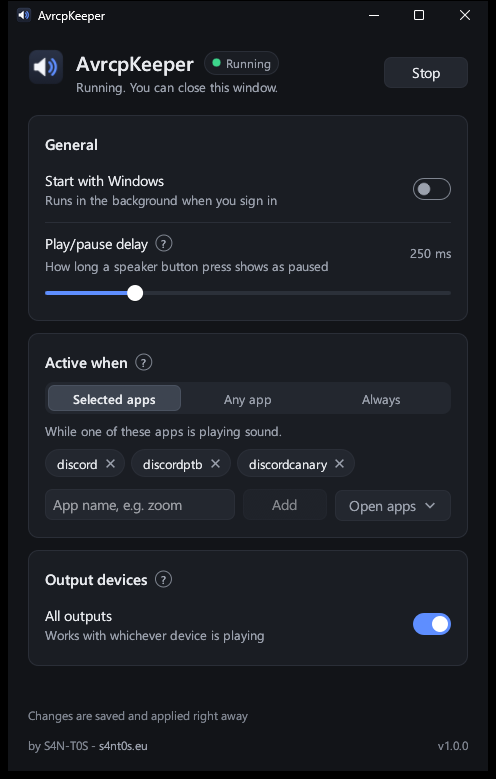
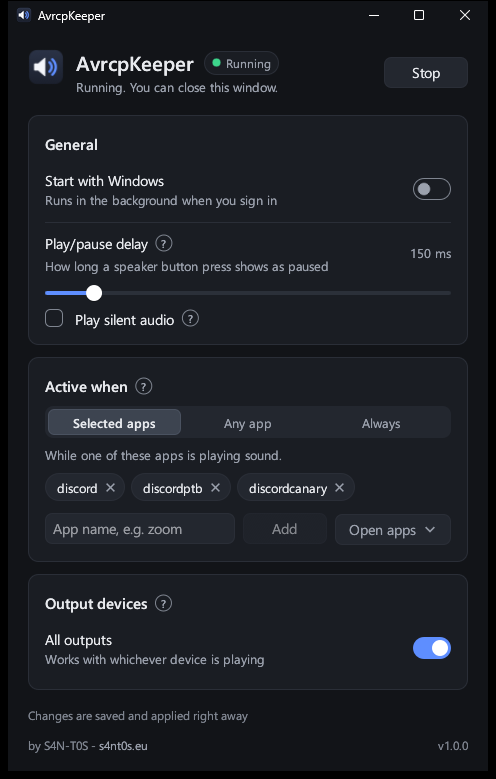
Make the silent stream optional and off by default
The stream popped on the JBL Flip when it started and stopped, and reporting "playing" alone keeps the speaker on. "Play silent audio" in the settings window (silent_stream in the ini) turns it back on.

Also lowers the default play/pause delay to 150 ms and makes the scrollbar handle visible against its track.

diff --git a/src/background.rs b/src/background.rs
@@ -161,7 +161,11 @@ fn describe(cfg: &Config) -> String {
         Devices::All => "all".to_string(),
         Devices::Selected(ids) => format!("{} selected", ids.len()),
     };
-    format!("Trigger: {trigger}; outputs: {devices}; resync: {} ms.", cfg.resync_ms)
+    format!(
+        "Trigger: {trigger}; outputs: {devices}; resync: {} ms; silent stream: {}.",
+        cfg.resync_ms,
+        if cfg.silent_stream { "on" } else { "off" }
+    )
 }
 
 fn create_window() -> Result<HWND> {
@@ -534,20 +538,22 @@ impl State {
         match create_session(self.hwnd, self.thumbnail.as_ref()) {
             Ok((smtc, button_token)) => {
                 let mut keeper = Keeper { smtc, button_token, device_id, stream: None, stream_retry_at: None };
-                if let Some(id) = &keeper.device_id {
-                    let name = audio::device_name(en, id).unwrap_or_else(|| id.clone());
-                    match audio::SilentStream::start(en, id) {
-                        Ok(stream) => {
-                            keeper.stream = Some(stream);
-                            log!("Active, silent stream on {name}.");
-                        }
-                        Err(e) => {
-                            keeper.stream_retry_at = Some(Instant::now() + STREAM_RETRY);
-                            log!("Active on {name} without a silent stream ({}).", e.message());
+                match &keeper.device_id {
+                    Some(id) if self.config.silent_stream => {
+                        let name = audio::device_name(en, id).unwrap_or_else(|| id.clone());
+                        match audio::SilentStream::start(en, id) {
+                            Ok(stream) => {
+                                keeper.stream = Some(stream);
+                                log!("Active, silent stream on {name}.");
+                            }
+                            Err(e) => {
+                                keeper.stream_retry_at = Some(Instant::now() + STREAM_RETRY);
+                                log!("Active on {name} without a silent stream ({}).", e.message());
+                            }
                         }
                     }
-                } else {
-                    log!("Active.");
+                    Some(id) => log!("Active on {}.", audio::device_name(en, id).unwrap_or_else(|| id.clone())),
+                    None => log!("Active."),
                 }
                 self.keeper = Some(keeper);
                 self.rebuild = false;
@@ -581,10 +587,18 @@ impl State {
     }
 
     /// Keeps the silent stream topped up, and recreates it if it fails, without touching the
-    /// media session (so the speaker never sees "stopped" for a stream hiccup).
+    /// media session (so the speaker never sees "stopped" for a stream hiccup). Also starts or
+    /// stops it when the setting changes.
     fn maintain_stream(&mut self, en: &IMMDeviceEnumerator) {
         let Some(keeper) = &mut self.keeper else { return };
         let Some(device) = keeper.device_id.clone() else { return };
+        if !self.config.silent_stream {
+            keeper.stream_retry_at = None;
+            if keeper.stream.take().is_some() {
+                log!("Silent stream stopped.");
+            }
+            return;
+        }
         let now = Instant::now();
         if let Some(stream) = &keeper.stream {
             if stream.refill().is_err() {
@@ -601,6 +615,7 @@ impl State {
             Ok(stream) => {
                 keeper.stream = Some(stream);
                 keeper.stream_retry_at = None;
+                log!("Silent stream started.");
             }
             Err(e) => {
                 keeper.stream_retry_at = Some(now + STREAM_RETRY);

diff --git a/src/gui/widgets.rs b/src/gui/widgets.rs
@@ -37,6 +37,29 @@ fn paint_switch(ui: &Ui, rect: Rect, on: bool, hovered: bool, id: Id) {
     painter.circle_filled(Pos2::new(x, rect.center().y), knob_r, mix(theme::TEXT_DIM, Color32::WHITE, t));
 }
 
+/// The box and tick of a checkbox, `t` going from 0 (off) to 1 (on).
+fn paint_check(ui: &Ui, rect: Rect, t: f32, hovered: bool) {
+    let painter = ui.painter();
+    let radius = CornerRadius::same(5);
+    if hovered {
+        painter.rect_filled(rect, radius, theme::SURFACE_HI);
+    }
+    let (edge, on_fill) =
+        if hovered { (theme::TEXT_DIM, theme::ACCENT_HOVER) } else { (theme::TEXT_FAINT, theme::ACCENT) };
+    painter.rect(
+        rect,
+        radius,
+        mix(Color32::TRANSPARENT, on_fill, t),
+        Stroke::new(1.0, mix(edge, on_fill, t)),
+        StrokeKind::Inside,
+    );
+    if t > 0.0 {
+        let c = rect.center();
+        let check = vec![c + egui::vec2(-4.5, 0.2), c + egui::vec2(-1.3, 3.4), c + egui::vec2(4.8, -3.6)];
+        painter.line(check, Stroke::new(2.0, Color32::WHITE.gamma_multiply(t)));
+    }
+}
+
 /// A full-width row with a title, an optional subtitle and a switch; clicking anywhere on it
 /// toggles. Returns true when the value changed.
 pub fn toggle_row(ui: &mut Ui, on: &mut bool, title: &str, subtitle: Option<&str>) -> bool {
@@ -277,18 +300,7 @@ pub fn check_row(ui: &mut Ui, checked: &mut bool, label: &str, status: Option<(&
     }
     let t = ui.ctx().animate_bool_responsive(response.id, *checked);
     let bx = Rect::from_min_size(Pos2::new(rect.left(), rect.center().y - 9.0), Vec2::splat(18.0));
-    painter.rect(
-        bx,
-        CornerRadius::same(5),
-        mix(Color32::TRANSPARENT, theme::ACCENT, t),
-        Stroke::new(1.0, mix(theme::TEXT_FAINT, theme::ACCENT, t)),
-        StrokeKind::Inside,
-    );
-    if t > 0.0 {
-        let c = bx.center();
-        let check = vec![c + egui::vec2(-4.5, 0.2), c + egui::vec2(-1.3, 3.4), c + egui::vec2(4.8, -3.6)];
-        painter.line(check, Stroke::new(2.0, Color32::WHITE.gamma_multiply(t)));
-    }
+    paint_check(ui, bx, t, false);
 
     let mut text_right = rect.right();
     if let Some((status, color)) = status {
@@ -308,6 +320,26 @@ pub fn check_row(ui: &mut Ui, checked: &mut bool, label: &str, status: Option<(&
     let galley = painter.layout_job(job);
     painter.galley(Pos2::new(text_left, rect.center().y - galley.size().y / 2.0), galley, theme::TEXT);
     focus_ring(ui, &response, hover_rect, 6);
+    response.on_hover_cursor(CursorIcon::PointingHand);
+    clicked
+}
+
+/// A checkbox sized to its label, unlike `check_row`. Returns true on toggle.
+pub fn checkbox(ui: &mut Ui, checked: &mut bool, label: &str) -> bool {
+    let galley = ui.painter().layout_no_wrap(label.to_owned(), FontId::proportional(theme::SIZE_BODY), theme::TEXT);
+    let size = egui::vec2(18.0 + 12.0 + galley.size().x, 20.0);
+    let (rect, response) = ui.allocate_exact_size(size, Sense::click());
+    response.widget_info(|| WidgetInfo::selected(WidgetType::Checkbox, ui.is_enabled(), *checked, label));
+    let clicked = response.clicked();
+    if clicked {
+        *checked = !*checked;
+    }
+    let t = ui.ctx().animate_bool_responsive(response.id, *checked);
+    let bx = Rect::from_min_size(Pos2::new(rect.left(), rect.center().y - 9.0), Vec2::splat(18.0));
+    paint_check(ui, bx, t, response.hovered());
+    let pos = Pos2::new(bx.right() + 12.0, rect.center().y - galley.size().y / 2.0);
+    ui.painter().galley(pos, galley, theme::TEXT);
+    focus_ring(ui, &response, bx, 5);
     response.on_hover_cursor(CursorIcon::PointingHand);
     clicked
 }

diff --git a/src/config.rs b/src/config.rs
@@ -4,7 +4,7 @@ use std::ops::RangeInclusive;
 use std::path::{Path, PathBuf};
 
 pub const FILE_NAME: &str = "AvrcpKeeper.ini";
-pub const DEFAULT_RESYNC_MS: u32 = 250;
+pub const DEFAULT_RESYNC_MS: u32 = 150;
 pub const RESYNC_RANGE: RangeInclusive<u32> = 50..=2000;
 pub const DEFAULT_APPS: [&str; 3] = ["discord", "discordptb", "discordcanary"];
 
@@ -56,6 +56,8 @@ pub struct Config {
     pub apps: Vec<String>,
     pub devices: Devices,
     pub resync_ms: u32,
+    /// Play a silent stream on the output while the session is up.
+    pub silent_stream: bool,
     /// Write AvrcpKeeper.log next to the exe.
     pub log: bool,
 }
@@ -67,6 +69,7 @@ impl Default for Config {
             apps: DEFAULT_APPS.iter().map(|s| s.to_string()).collect(),
             devices: Devices::All,
             resync_ms: DEFAULT_RESYNC_MS,
+            silent_stream: false,
             log: false,
         }
     }
@@ -103,6 +106,11 @@ impl Config {
                         cfg.resync_ms = ms.clamp(*RESYNC_RANGE.start(), *RESYNC_RANGE.end());
                     }
                 }
+                "silent_stream" => {
+                    if let Some(on) = parse_bool(value) {
+                        cfg.silent_stream = on;
+                    }
+                }
                 "log" => {
                     if let Some(on) = parse_bool(value) {
                         cfg.log = on;
@@ -127,12 +135,15 @@ impl Config {
              ; devices: all, or a comma-separated list of audio endpoint IDs\n\
              devices = {}\n\
              resync_ms = {}\n\
+             ; silent_stream: true plays silence on the output while active\n\
+             silent_stream = {}\n\
              ; log: true writes AvrcpKeeper.log next to the exe\n\
              log = {}\n",
             self.trigger.as_str(),
             self.apps.join(", "),
             devices,
             self.resync_ms,
+            self.silent_stream,
             self.log
         )
     }
@@ -286,12 +297,13 @@ mod tests {
     #[test]
     fn parses_all_keys() {
         let cfg = Config::parse(&format!(
-            "trigger = any\napps = Spotify.exe, C:\\Games\\game.exe\ndevices = {JBL}\nresync_ms = 400\nlog = yes\n"
+            "trigger = any\napps = Spotify.exe, C:\\Games\\game.exe\ndevices = {JBL}\nresync_ms = 400\nsilent_stream = on\nlog = yes\n"
         ));
         assert_eq!(cfg.trigger, Trigger::AnyApp);
         assert_eq!(cfg.apps, vec!["spotify", "game"]);
         assert_eq!(cfg.devices, Devices::Selected(vec![JBL.to_string()]));
         assert_eq!(cfg.resync_ms, 400);
+        assert!(cfg.silent_stream);
         assert!(cfg.log);
     }
 
@@ -301,6 +313,12 @@ mod tests {
         assert!(!Config::parse("log = maybe\n").log);
         assert!(Config::parse("log = TRUE\n").log);
         assert!(!Config::parse("log = true\nlog = off\n").log);
+    }
+
+    #[test]
+    fn silent_stream_is_off_unless_enabled() {
+        assert!(!Config::default().silent_stream);
+        assert!(Config::parse("silent_stream = true\n").silent_stream);
     }
 
     #[test]
@@ -338,7 +356,8 @@ mod tests {
 
     #[test]
     fn round_trips() {
-        let mut cfg = Config { trigger: Trigger::Always, resync_ms: 300, log: true, ..Config::default() };
+        let mut cfg =
+            Config { trigger: Trigger::Always, resync_ms: 300, silent_stream: true, log: true, ..Config::default() };
         cfg.devices = Devices::Selected(vec![JBL.to_string()]);
         assert_eq!(Config::parse(&cfg.to_ini()), cfg);
         assert_eq!(Config::parse(&Config::default().to_ini()), Config::default());

diff --git a/src/gui/mod.rs b/src/gui/mod.rs
@@ -36,6 +36,10 @@ doesn't mute. The speaker then gets out of sync and its play/pause button stops 
 To avoid that, AvrcpKeeper briefly reports \"paused\" after each press and then \"playing\" again. This sets how long \
 that moment lasts. Call audio may dip during it. Shorter feels snappier; if the button still stops responding, raise \
 it.";
+const HELP_SILENT: &str = "By default AvrcpKeeper only tells the speaker that something is playing, which is usually \
+enough. Turning this on also plays silence to the speaker while AvrcpKeeper is active. Try it if the speaker still \
+mutes during calls. Some speakers click or pop when the silence starts and stops.\n\n\
+Not used with Always, so your PC can still sleep.";
 const HELP_TRIGGER: &str = "AvrcpKeeper only tells the speaker that something is playing while this is true. \
 The rest of the time your speaker and media keys behave as usual.";
 const HELP_DEVICES: &str = "AvrcpKeeper is only active on these outputs. Bluetooth speakers stay listed while \
@@ -469,6 +473,17 @@ impl SettingsApp {
             if widgets::slider(ui, &mut self.config.resync_ms, range, 10, "Play/pause delay").changed() {
                 self.mark_dirty();
             }
+            let row = egui::vec2(ui.available_width(), 20.0);
+            ui.allocate_ui_with_layout(row, Layout::left_to_right(Align::Center), |ui| {
+                if widgets::checkbox(ui, &mut self.config.silent_stream, "Play silent audio") {
+                    self.mark_dirty();
+                }
+                widgets::help(ui, "Play silent audio", HELP_SILENT);
+                if self.config.trigger == Trigger::Always {
+                    let note = RichText::new("Not used with Always").size(theme::SIZE_SECONDARY);
+                    ui.label(note.color(theme::TEXT_FAINT));
+                }
+            });
         });
     }
 

diff --git a/src/gui/theme.rs b/src/gui/theme.rs
@@ -52,7 +52,21 @@ pub fn apply(ctx: &egui::Context) {
         style.spacing.button_padding = egui::vec2(14.0, 6.0);
         style.spacing.interact_size.y = 24.0;
         style.spacing.combo_height = 260.0;
-        style.spacing.scroll = ScrollStyle::solid();
+        // With this theme `solid()` paints the handle and track the same color. Keep its layout
+        // and draw the handle in a faint text color instead.
+        style.spacing.scroll = ScrollStyle {
+            floating: true,
+            floating_width: 6.0,
+            floating_allocated_width: 10.0,
+            foreground_color: true,
+            dormant_background_opacity: 1.0,
+            active_background_opacity: 1.0,
+            interact_background_opacity: 1.0,
+            dormant_handle_opacity: 0.25,
+            active_handle_opacity: 0.25,
+            interact_handle_opacity: 0.45,
+            ..ScrollStyle::solid()
+        };
 
         let v = &mut style.visuals;
         v.dark_mode = true;

diff --git a/README.md b/README.md
@@ -31,7 +31,7 @@ I found and tested this on a JBL Flip, but any speaker that stops its output whe
 
 ## How it works
 
-Windows sends the speaker a play status over AVRCP (the Bluetooth remote-control profile), based on whichever media player is active. AvrcpKeeper registers its own media session and reports it as "playing" while the trigger is active (by default, Discord playing audio), with a silent audio stream underneath. The speaker sees "playing" and keeps its output on. Twenty seconds after the trigger goes quiet, the session is removed and everything goes back to normal.
+Windows sends the speaker a play status over AVRCP (the Bluetooth remote-control profile), based on whichever media player is active. AvrcpKeeper registers its own media session and reports it as "playing" while the trigger is active (by default, Discord playing audio). It doesn't play any sound of its own unless you turn on **Play silent audio**. The speaker sees "playing" and keeps its output on. Twenty seconds after the trigger goes quiet, the session is removed and everything goes back to normal.
 
 - **Media buttons still work.** While AvrcpKeeper is the active session, play/pause, next and previous from the speaker or keyboard go to the player you used last.
 - **Play/pause on the speaker stays in sync.** Some speakers track play/pause themselves, so after each press AvrcpKeeper reports "paused" for a moment and then "playing" again. That keeps the button working on every press. Call audio dips for that moment.
@@ -58,7 +58,8 @@ gh attestation verify AvrcpKeeper-<version>-windows-x64.zip -R S4N-T0S/AvrcpKeep
 | Setting | What it does |
 | --- | --- |
 | Start with Windows | Adds `AvrcpKeeper.exe --background` to your user's startup programs. |
-| Play/pause delay | How long the "paused" blip lasts after a play/pause press. 250 ms by default. If the speaker's button only works once and then stops responding, raise it. |
+| Play/pause delay | How long the "paused" blip lasts after a play/pause press. 150 ms by default. If the speaker's button only works once and then stops responding, raise it. |
+| Play silent audio | Also plays silence to the speaker while AvrcpKeeper is active. Off by default. Try it if the speaker still mutes during calls. Some speakers click or pop when the silence starts and stops. Not used with **Always**, so the PC can still sleep. |
 | Active when | **Selected apps** (Discord by default), **Any app** that is playing sound (system sounds are ignored), or **Always** while a selected output is connected. |
 | Output devices | **All outputs**, or only specific ones. Bluetooth speakers stay in the list while they're switched off, so you can pick yours before it connects. |
 
@@ -70,11 +71,12 @@ Settings are stored in `AvrcpKeeper.ini` next to the exe:
 trigger = apps
 apps = discord, discordptb, discordcanary
 devices = all
-resync_ms = 250
+resync_ms = 150
+silent_stream = false
 log = false
 ```
 
-`trigger` is `apps`, `any` or `always`. `apps` takes executable names with or without `.exe`. `devices` is `all` or a comma-separated list of audio endpoint IDs (the settings window fills these in for you). `log = true` writes `AvrcpKeeper.log` next to the exe (off by default). Once the log reaches 1 MB it replaces `AvrcpKeeper.log.old`, so there are never more than two log files.
+`trigger` is `apps`, `any` or `always`. `apps` takes executable names with or without `.exe`. `devices` is `all` or a comma-separated list of audio endpoint IDs (the settings window fills these in for you). `silent_stream = true` turns on **Play silent audio**. `log = true` writes `AvrcpKeeper.log` next to the exe (off by default). Once the log reaches 1 MB it replaces `AvrcpKeeper.log.old`, so there are never more than two log files.
 
 ## Command line
 

diff --git a/CHANGELOG.md b/CHANGELOG.md
@@ -1,5 +1,10 @@
 # Changelog
 
+## Unreleased
+
+- AvrcpKeeper no longer plays a silent audio stream by default. It caused a pop on some speakers when it started and stopped, and reporting "playing" was enough on the speaker I tested with. If your speaker mutes again after updating, turn on the new **Play silent audio** setting (`silent_stream = true`).
+- The default play/pause delay is now 150 ms (was 250 ms).
+
 ## 1.0.0
 
 First release.
